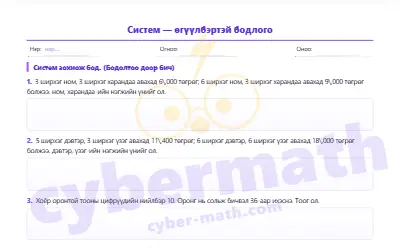
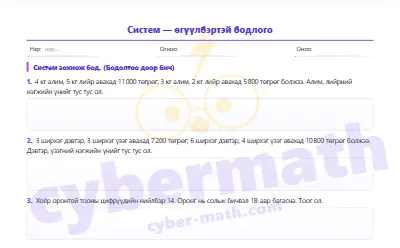
fix(ws): «Систем — өгүүлбэртэй бодлого» — текстэн дэх мөнгөн дүнд \, гарч байсныг нарийн зайгаар солив
Бодлогын текст $…$-ээс гадуур тул TeX-ийн \, задлагдахгүй «6\,400 төгрөг» гэж харагдаж байв.
Мөн «Алим, лийрний нэгжийн үнийг тус тус ол.», «1 кг алимны үнэ x», 9-ийн үржвэрийн дагавар (9-өөр, 27-гоор …) зөв болов.

diff --git a/sistem-4-9.html b/sistem-4-9.html
@@ -45,19 +45,22 @@ function rnd(a,b){return a+Math.floor(Math.random()*(b-a+1));}
 function pick(a){return a[rnd(0,a.length-1)];}
 function toggleSol(){var el=document.getElementById('solutions');if(el)el.style.display=document.getElementById('ss').checked?'block':'none';}
 function grp(s){s=''+s;var out='',c=0;for(var i=s.length-1;i>=0;i--){out=s[i]+out;if(++c%3===0&&i>0)out='\\,'+out;}return out;}
+function grpT(s){return grp(s).replace(/\\,/g,' ');} // $…$-ээс гадуурх текстэд: TeX-ийн \, биш нарийн зай
+function cap(s){return s.charAt(0).toUpperCase()+s.slice(1);}
 function eqStr(a,b,c){var lhs='';if(a!==0)lhs+=(a===1?'':(a===-1?'-':a))+'x';if(b!==0){var bm=Math.abs(b),bs=b<0?'-':(lhs?'+':'');lhs+=bs+(bm===1?'':bm)+'y';}if(lhs==='')lhs='0';return lhs+'='+grp(c);}
 function sysStr(e1,e2){return '\\begin{cases}'+e1+'\\\\'+e2+'\\end{cases}';}
 function step(t){return '<div class="step">'+t+'</div>';}
 function res(t){return '<div class="res">Хариу: '+t+'</div>';}
 // 1) Худалдан авалт (үнэ)
-var ITM=[['алим','лийр','кг'],['дэвтэр','үзэг','ширхэг'],['ном','харандаа','ширхэг']];
+var ITM=[['алим','лийр','кг','алимны','лийрний'],['дэвтэр','үзэг','ширхэг','дэвтрийн','үзэгний'],['ном','харандаа','ширхэг','номын','харандааны']];
 function gPrice(){var it=pick(ITM),x0=rnd(2,20)*100,y0=rnd(2,20)*100,a1=rnd(2,6),b1=rnd(2,6),a2=rnd(2,6),b2=rnd(2,6);
   if(a1*b2-a2*b1===0||(a1===a2&&b1===b2))return null;var T1=a1*x0+b1*y0,T2=a2*x0+b2*y0;
-  return {q:a1+' '+it[2]+' '+it[0]+', '+b1+' '+it[2]+' '+it[1]+' авахад '+grp(T1)+' төгрөг; '+a2+' '+it[2]+' '+it[0]+', '+b2+' '+it[2]+' '+it[1]+' авахад '+grp(T2)+' төгрөг болжээ. '+it[0]+', '+it[1]+'-ийн нэгжийн үнийг ол.',
-    sol:step(it[0]+'-ийн үнэ $x$, '+it[1]+'-ийн үнэ $y$ гэвэл: $'+sysStr(eqStr(a1,b1,T1),eqStr(a2,b2,T2))+'$')+step('Бодвол: $x='+grp(x0)+',\\ y='+grp(y0)+'$')+res(it[0]+' '+grp(x0)+'₮, '+it[1]+' '+grp(y0)+'₮')};}
+  return {q:a1+' '+it[2]+' '+it[0]+', '+b1+' '+it[2]+' '+it[1]+' авахад '+grpT(T1)+' төгрөг; '+a2+' '+it[2]+' '+it[0]+', '+b2+' '+it[2]+' '+it[1]+' авахад '+grpT(T2)+' төгрөг болжээ. '+cap(it[0])+', '+it[4]+' нэгжийн үнийг тус тус ол.',
+    sol:step('1 '+it[2]+' '+it[3]+' үнэ $x$, 1 '+it[2]+' '+it[4]+' үнэ $y$ гэвэл: $'+sysStr(eqStr(a1,b1,T1),eqStr(a2,b2,T2))+'$')+step('Бодвол: $x='+grp(x0)+',\\ y='+grp(y0)+'$')+res(it[0]+' '+grpT(x0)+'₮, '+it[1]+' '+grpT(y0)+'₮')};}
 // 2) Хоёр оронтой тоо
+var SUF9={9:'-өөр',18:'-аар',27:'-гоор',36:'-гаар',45:'-аар',54:'-өөр',63:'-аар',72:'-оор'};
 function gDigit(){var d1=rnd(1,8),d2=rnd(1,9);if(d1===d2)return null;var S=d1+d2,N=10*d1+d2,more=d2>d1,ad=9*Math.abs(d2-d1);
-  return {q:'Хоёр оронтой тооны цифрүүдийн нийлбэр '+S+'. Оронг нь сольж бичвэл '+ad+'-аар '+(more?'ихэснэ':'багасна')+'. Тоог ол.',
+  return {q:'Хоёр оронтой тооны цифрүүдийн нийлбэр '+S+'. Оронг нь сольж бичвэл '+ad+SUF9[ad]+' '+(more?'ихэснэ':'багасна')+'. Тоог ол.',
     sol:step('Аравтын цифр $x$, нэгжийн цифр $y$ гэвэл: $'+sysStr('x+y='+S,(more?'y-x=':'x-y=')+Math.abs(d2-d1))+'$')+step('Бодвол: $x='+d1+',\\ y='+d2+'$')+res('Тоо: '+N)};}
 // 3) Урсгал (хурд)
 function gSpeed(){var v=rnd(8,25),c=rnd(2,v-2),X=v+c,Y=v-c;
